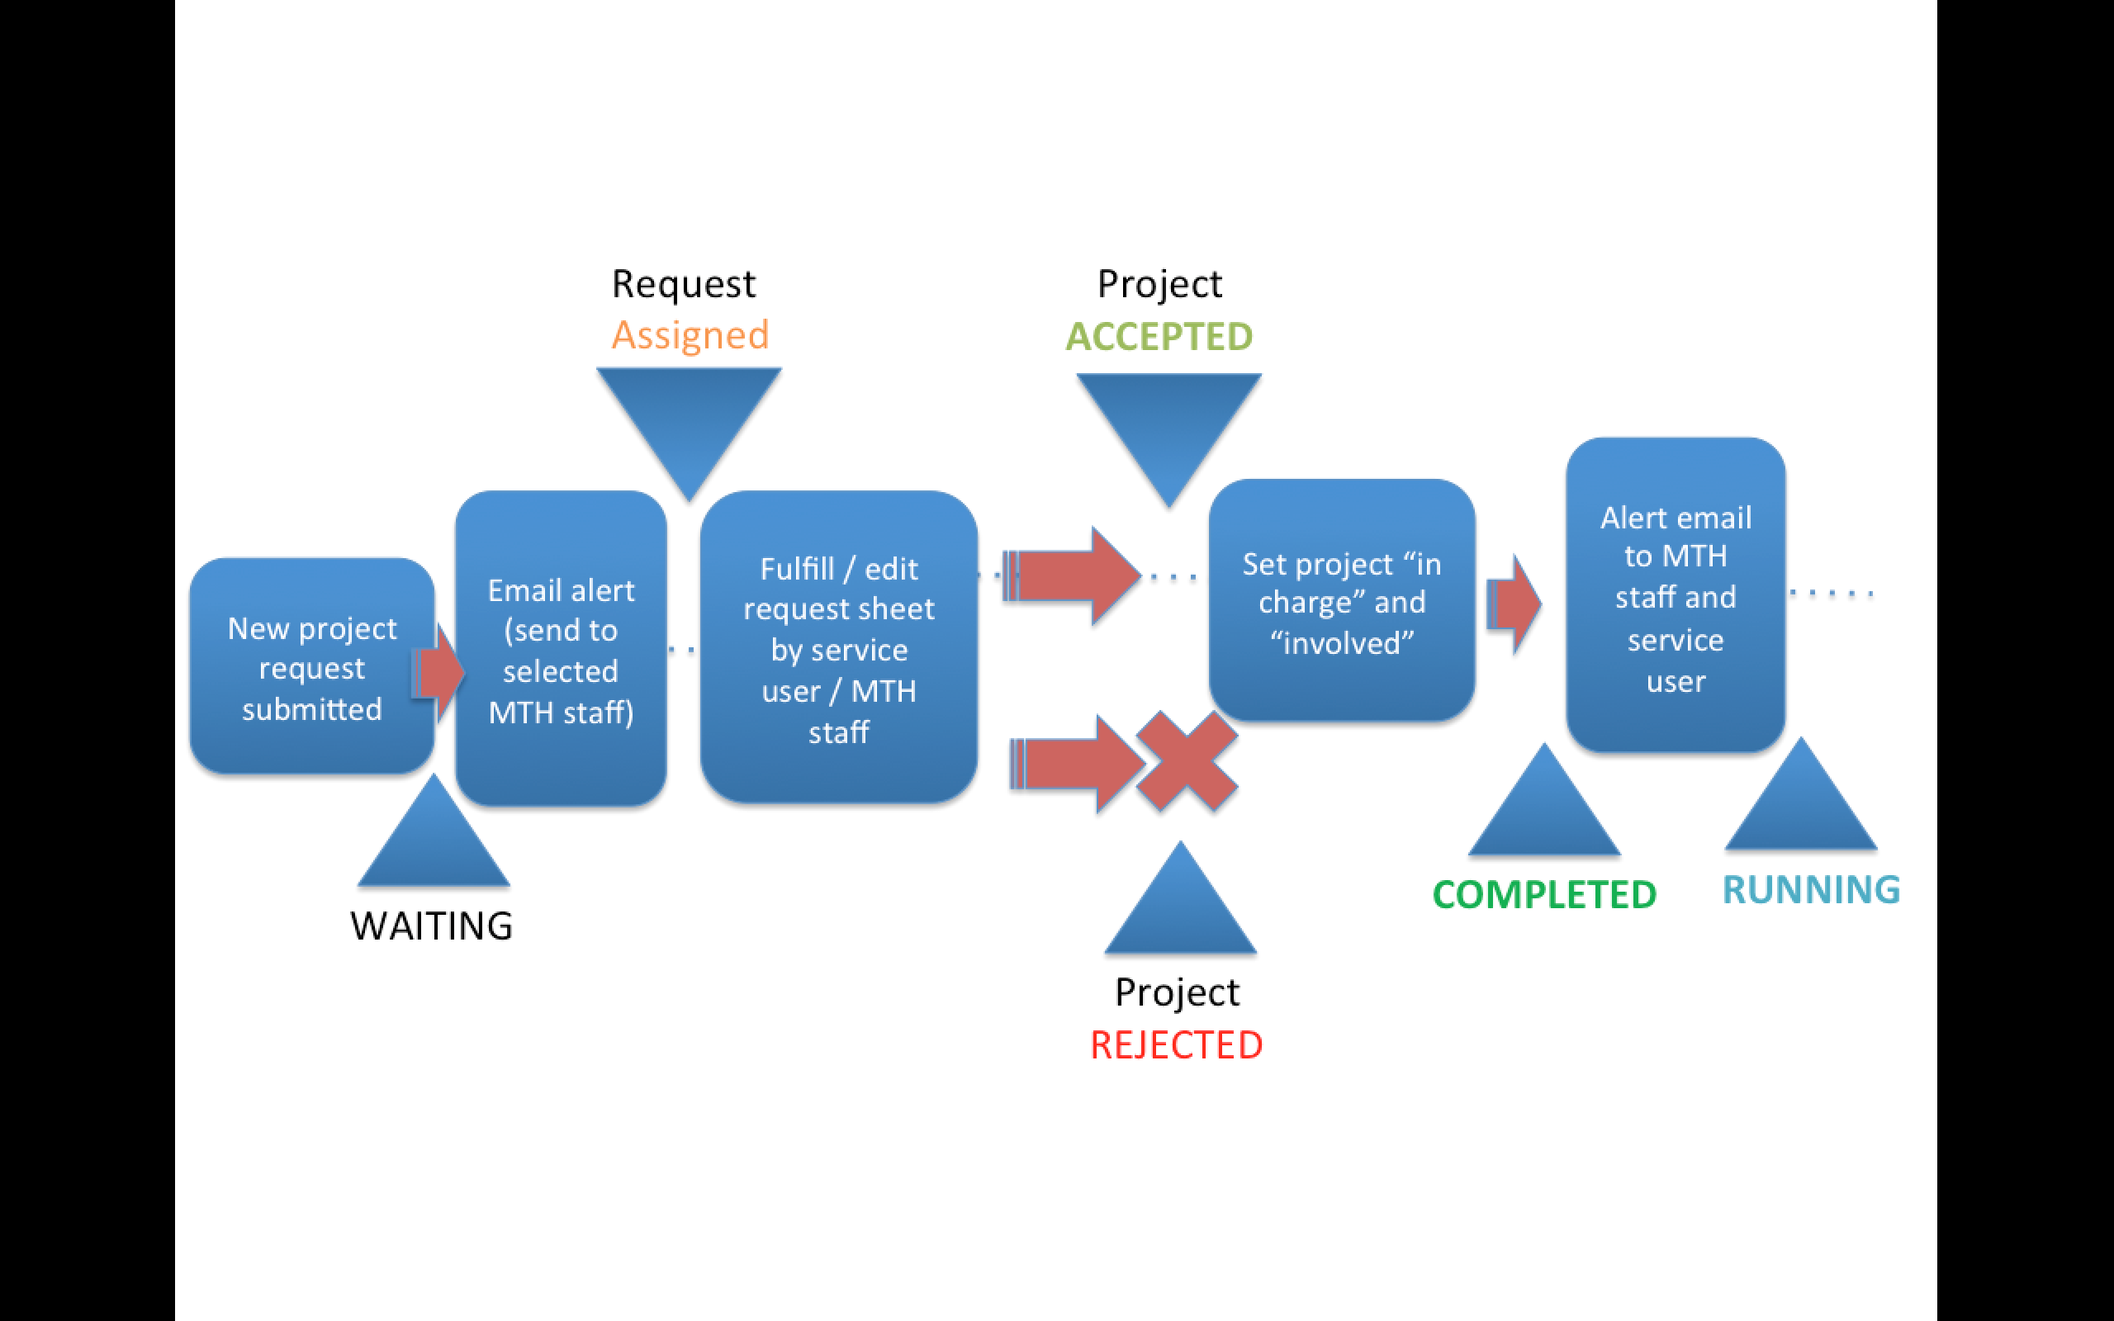
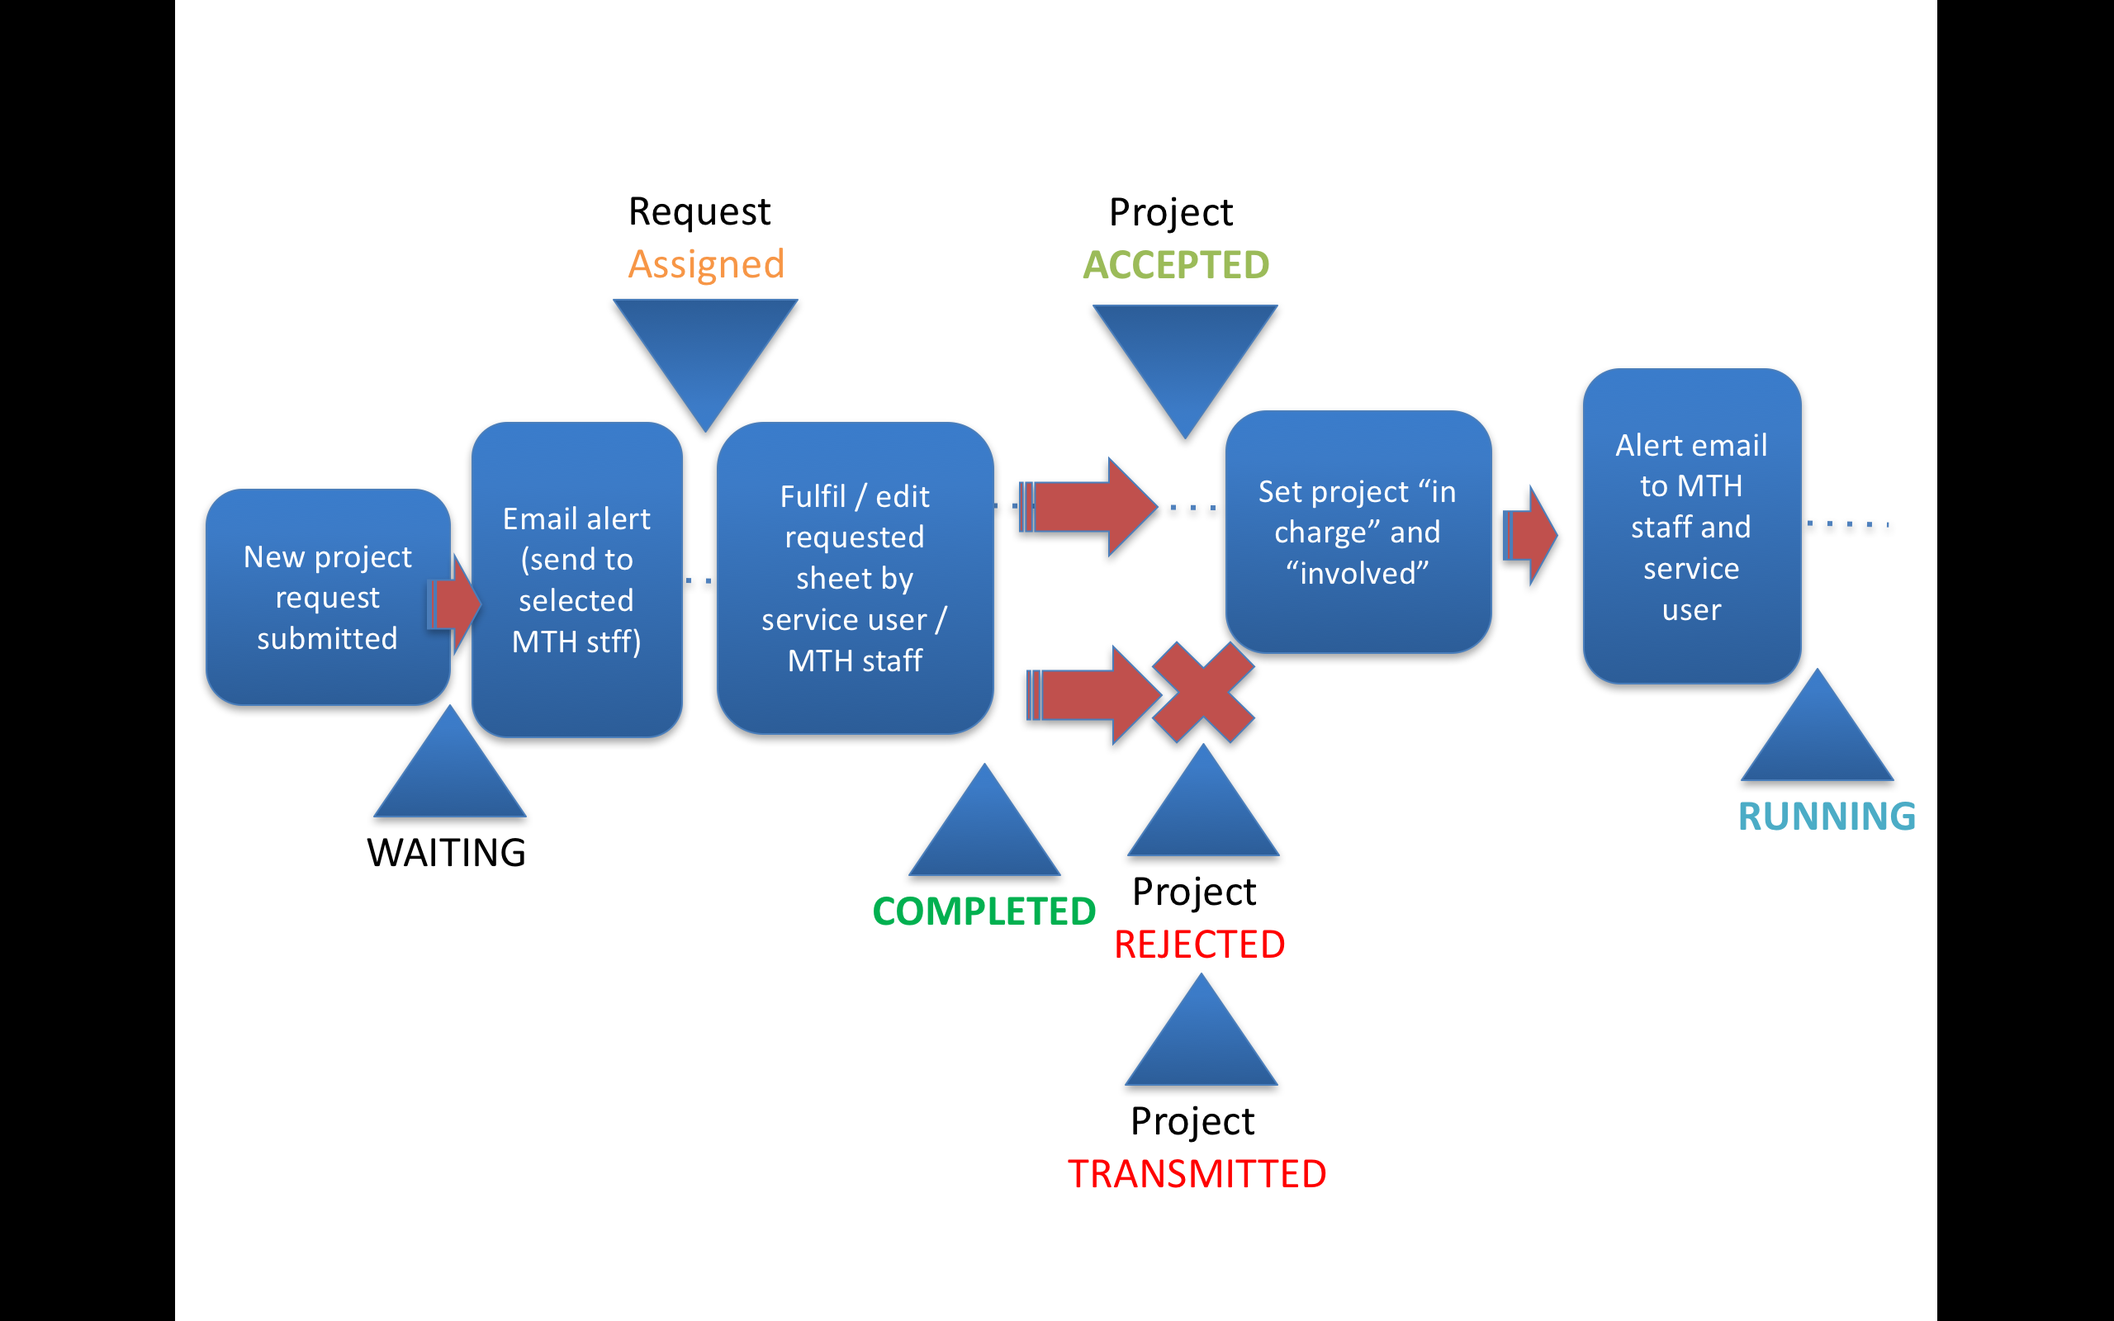
[mama#dev] release 1.0.1

Changed region(s): [[0.0625, 0.1562, 0.9062, 0.9062]]

diff --git a/lang/messages-fr.js b/lang/messages-fr.js
@@ -81,10 +81,10 @@ create_account_userTypeOfLabo_privatePublic = "privé et public"
 create_account_userBtnCreateUser = "Créer un compte"
 create_account_chooseListPhone = "choisir dans la liste..."
 create_account_error_invalid_email = "erreur : l'adresse du courriel ne semble pas valide&#160;!"
-create_account_error_emails_no_match = "erreur : le courriel et la vérifiaction du courriel sont différents&#160;!"
+create_account_error_emails_no_match = "erreur : le courriel et la vérification du courriel sont différents&#160;!"
 create_account_error_weak_password = "erreur :  mot-de-passe trop faible&#160;!"
 create_account_warning_weak_password = "attention : mot-de-passe faible&#160;!"
-create_account_error_passwords_no_match = "erreur : vos deux mot-de-passe doivent être identique."
+create_account_error_passwords_no_match = "erreur : vos deux mot-de-passes doivent être identiques."
 create_account_warning_ldap_email = "attention : votre courriel est conforme aux accréditations LDAP&#160;; vous pouvez utiliser vos identifiants LDAP pour vous <a href=\"?page=login\">connecter</a> sans créer de compte&#160;!"
 
 // update account
@@ -108,7 +108,7 @@ update_account_field_newPwd_success = "(succès)"
 update_account_field_rePwd = "re-entrer votre nouveau mot-de-passe"
 update_account_field_rePwd_ph = "re-entrer votre nouveau mot-de-passe"
 update_account_field_rePwd_success = "(succès)"
-update_account_field_phoneGrp = "code d'appel / numéro de tel."
+update_account_field_phoneGrp = "code d'appel / numéro de tél."
 update_account_field_phoneGrpList = "choisir dans la liste..."
 update_account_field_phoneGrp_ph = "entrez votre numéro de tél"
 update_account_field_laboOrComp = "Laboratoire ou Compagnie"
@@ -123,7 +123,7 @@ update_account_title_accountPref = "Pref. du compte"
 update_account_pref_receiveEmail = "réception des courriels"
 update_account_pref_receiveEmail_eachNotif = "chaque notification"
 update_account_pref_receiveEmail_dailyDig = "bilan journalier"
-update_account_pref_receiveEmail_weeklyDig = "bilan hébdomadaire"
+update_account_pref_receiveEmail_weeklyDig = "bilan hebdomadaire"
 update_account_pref_notif = "alerte des courriels"
 update_account_pref_notifNewUser = "nouveau(x) compte(s) d'utilisateur"
 update_account_pref_notifNewAR = "nouvelle(s) sollicitation(s)"
@@ -136,7 +136,7 @@ update_account_pref_gravatar = "changer en utilisant <a href=\"https://gravatar.
 update_account_updateBtn = "Mettre-à-jour"
 update_account_error_weak_password = "erreur : mot-de-passe trop faible !"
 update_account_warning_weak_password = "attention : mot-de-passe faible !"
-update_account_error_passwords_no_match = "erreur : vos deux mot-de-passe doivent être identiques."
+update_account_error_passwords_no_match = "erreur : vos deux mot-de-passes doivent être identiques."
 
 // dashboad
 viewDetails = "Détails"
@@ -153,8 +153,8 @@ dashboard_assignedProjects = "Sollicitation(s) assignée(s)&#160;!"
 dashboard_bringMeThere = "aller là-bas"
 dashboard_add = "Ajouter"
 dashboard_createNewRequest = "Créer une demande de sollicitation&#160;!"
-dashboard_acceptedProjects = "Projet(s) accépté(s)&#160;!"
-dashboard_completedProjects = "Projet(s) completé(s)&#160;!"
+dashboard_acceptedProjects = "Projet(s) accepté(s)&#160;!"
+dashboard_completedProjects = "Projet(s) complété(s)&#160;!"
 dashboard_runningProjects = "Projet(s) en cours&#160;!"
 dashboard_myProjects = "Mes  Projet(s)"
 dashboard_allProjects = "Tout les projet(s)"
@@ -175,11 +175,11 @@ dashboard_messagesPanel = "Message(s)"
 // diag
 _diag_projectStats = 'Stats. des sollicitations/projets'
 _diag_projectStats_serieProjects = "Projets"
-_diag_projectStats_serieProjects_inCharge = "À gérer"
+_diag_projectStats_serieProjects_inCharge = "A gérer"
 _diag_projectStats_serieProjects_waiting = "En attente"
-_diag_projectStats_serieProjects_assigned = "Assignées"
+_diag_projectStats_serieProjects_assigned = "Assignés"
 _diag_projectStats_serieProjects_accepted = "Acceptés"
-_diag_projectStats_serieProjects_completed = "Completés"
+_diag_projectStats_serieProjects_completed = "Complétés"
 _diag_projectStats_serieProjects_running = "En cours"
 _diag_projectStats_serieProjects_blocked = "En pause"
 _diag_projectStats_serieProjects_rejected = "Rejetés"
@@ -199,7 +199,7 @@ createProject_title_create = "Créer"
 createProject_title_newAnalysisRequest = "nouvelle sollicitation"
 createProject_content_basicInformations = "informations basiques"
 createProject_content_projectTitle = "titre du projet"
-createProject_content_projectTitle_ph = "entrez le titre de la sollicitation / du projet"
+createProject_content_projectTitle_ph = "entrer le titre de la sollicitation / du projet"
 createProject_content_projectTitle_help = "Sera utilisé plus tard pour suivre la sollicitation / le projet. Choisir Sagement !"
 createProject_content_projectAim = "Que voulez-vous faire avec MetaboHUB ?"
 createProject_content_projectAim_ph = "Expliquez votre projet en quelques mots"
@@ -215,9 +215,9 @@ createProject_content_projectType_less50 = "50 ou moins"
 createProject_content_projectType_51to100 = "51 à 100"
 createProject_content_projectType_101to500 = "101 à 500"
 createProject_content_projectType_more501 = "plus de 501"
-createProject_content_projectType_thematicCloudWords = "Mots-clef thématiques"
+createProject_content_projectType_thematicCloudWords = "mots-clefs thématiques"
 createProject_content_projectType_thematicCloudWords_help = "choisir 3 max."
-createProject_content_projectType_subThematicCloudWords = "Mots-clef sous-thématiques"
+createProject_content_projectType_subThematicCloudWords = "Mots-clefs sous-thématiques"
 createProject_content_projectType_subThematicCloudWords_help = "choisir 5 max."
 createProject_content_projectInformations = "informations sur la sollicitation / le projet"
 createProject_content_projectType = "Type"
@@ -228,8 +228,8 @@ createProject_content_project_copart = "l'analyse peut-elle être transmise à u
 createProject_content_project_copart_yes = "oui"
 createProject_content_project_copart_no = "non"
 createProject_content_project_copart_def = "Partenaire privilégié : MTH ne peut pas subvenir à tous les besoins, votre demande peut éventuellement être basculée vers nos <a href=\"http://www.metabohub.fr/donnees/partenaires/\" target=\"_blank\">partenaires</a>&nbsp;; ce sont des laboratoires français compétents et fiables spécialisés en métabolomique et/ou fluxomique qui ne font pas partie de MTH."
-createProject_content_project_context = "context scientifique"
-createProject_content_project_desc = "Déscription Rapide"
+createProject_content_project_context = "contexte scientifique"
+createProject_content_project_desc = "Description rapide"
 createProject_content_project_desc_file_upload = "Téléverser un fichier"
 createProject_content_project_desc_file_upload_btn = "Parcourir&#133;"
 createProject_content_project_financialContext = "Contexte financier"
@@ -244,30 +244,30 @@ createProject_content_project_financialContextNational = "National"
 createProject_content_project_financialContextRegional = "Régional"
 createProject_content_project_financialContextTuto = "tutorat de compagnie"
 createProject_content_project_financialInternationalOutsideEU = "International en dehors de UE"
-createProject_content_project_financialOwnResourcesLaboratory = "Fonds propres unite d’adossement"
+createProject_content_project_financialOwnResourcesLaboratory = "Fonds propres unité d’adossement"
 createProject_content_project_financialContextOther = "autre"
 createProject_content_project_financialContextOther_fin = "Financement autre"
-createProject_content_project_financialContextOther_fin_ph = "autre context  financier"
+createProject_content_project_financialContextOther_fin_ph = "autre contexte financier"
 createProject_warningAsterix = "Attention : les champs avec un astérisque<sup style='color:red'>*</sup> sont obligatoires !"	
 createProject_content_btn_create = "Créer une nouvelle sollicitation"
 // edit project
 editProject_title_edit = "Éditer"
-editProject_title_project = "la solliciation / le projet"
+editProject_title_project = "la sollicitation / le projet"
 editProject_metadata_createdBy = "Cette requête / projet a été initié par"
-editProject_metadata_createdOn = "Crée le :"
+editProject_metadata_createdOn = "Créé le :"
 editProject_metadata_updatedOn = "Dernière mise-à-jour :"
 editProject_alertSuccess = "Succès"
 editProject_alertProjectUpdated = "sollicitation / projet mis-à-jour !"
 editProject_extraBox_title = "informations : stats. MTH"
 editProject_extraBox_help = "Merci de compléter ces informations lors de l’entretien téléphonique avec le demandeur."
-editProject_extraBox_laboType = "Type de Labo"
+editProject_extraBox_laboType = "Type de Laboratoire"
 editProject_extraBox_laboType_private = "privé"
 editProject_extraBox_laboType_public = "public"
 editProject_extraBox_laboType_privatepublic = "privé/public"
-editProject_extraBox_adminContext = "Context administratif"
+editProject_extraBox_adminContext = "Contexte administratif"
 editProject_extraBox_adminContext_ph = "exp. : MNHN - UMR 12345"
 editProject_extraBox_adminContext_help = "Veuillez indiquer la tutelle principale (INRA, CNRS, CEA, INSERM, Université, INSA, etc.) et l’unité de recherche ou le nom de la société."
-editProject_extraBox_geoContext = "context Géographique"
+editProject_extraBox_geoContext = "contexte Géographique"
 editProject_extraBox_geoContext_ph = "exp. : Unité d’adossement"
 editProject_extraBox_geoContext_help = "Veuillez indiquer le contexte géographique (Unité d’adossement, régional, national ou international)"
 editProject_extraBox_howDidYouKnewMTH = "Comment avez-vous connu MTH ?"
@@ -275,7 +275,7 @@ editProject_extraBox_hdykm_coworker = "collègue"
 editProject_extraBox_hdykm_publication = "publication / communication / congrès "
 editProject_extraBox_hdykm_website = "site web"
 editProject_extraBox_hdykm_serchEngine = "moteur de recherche"
-editProject_extraBox_userNeeds = "besoins synthetiques de l'utilisateur"
+editProject_extraBox_userNeeds = "besoins synthétiques de l'utilisateur"
 editProject_extraBox_userNeeds_ph = "exp. : Analyses métabolomiques sur deux matrices."
 editProject_extraBox_userNeeds_help = "Veuillez indiquer les besoins de l’utilisateur."
 editProject_extraBox_projectMaturity = "Maturité du projet ?"
@@ -292,26 +292,26 @@ editProject_btn_update = "Mettre à jour"
 		
 // list projects
 listProjects_noProject_title = "Désolé,"
-listProjects_noProject_text = "aucune solliciation / aucun projet à afficher pour le moment !"
-listProjects_search_ph = "exp. : titre de la solliciation / du projet"
+listProjects_noProject_text = "aucune sollicitation / aucun projet à afficher pour le moment !"
+listProjects_search_ph = "exp. : titre de la sollicitations / du projet"
 listProjects_search_filter_all = "Tous"
 listProjects_search_filter_blocked = "Pj en pause"
-listProjects_search_filter_rejected = "Sol. rejetés"
+listProjects_search_filter_rejected = "Sol. rejetées"
 listProjects_search_filter_waiting = "Sol. en attente"
-listProjects_search_filter_assigned = "Pj assignées"
+listProjects_search_filter_assigned = "Pj assignés"
 listProjects_search_filter_accepted = "Pj acceptés"
-listProjects_search_filter_completed = "Pj completés"
+listProjects_search_filter_completed = "Pj complétés"
 listProjects_search_filter_running = "Pj en cours"
 listProjects_search_filter_archived = "Pj archivés"
 listProjects_search_filter_allStatus = "Tout statut"
 listProjects_search_btn = "Chercher"
 listProjects_filter_owner = "Je suis propr."
-listProjects_filter_inCharge = "Je gére"
+listProjects_filter_inCharge = "Je gère"
 listProjects_filter_involved = "Je suis analyste"
 listProjects_download_btn = "Télécharger"
 listProjects_filter_from = "depuis"
 listProjects_filter_to = "jusqu'à"
-listProjects_tab_title = "nom de la solliciation / du projet"
+listProjects_tab_title = "nom de la sollicitation / du projet"
 listProjects_tab_status = "Statut"
 listProjects_tab_created = "Créé"
 listProjects_tab_updated = "Mis-à-jour"
@@ -346,7 +346,7 @@ listAppointments_search_filter_ongoing = "seulement à venir"
 listAppointments_search_btn = "Chercher"
 _appointmentChooseDatePrefix = "choisir entre ";
 _appointmentChooseDateSuffix = "";
-listAppointments_tab_about_pj = "À propos de la solliciation / du Projet"
+listAppointments_tab_about_pj = "À propos de la sollicitation / du Projet"
 listAppointments_tab_from = "De"
 listAppointments_tab_to = "Pour"
 listAppointments_tab_message = "Message"
@@ -367,7 +367,7 @@ _login_used = "ce courriel est déjà utilisé en identifiant."
 editProjectMenu_setToAssigned = "changer à \"assigné\""
 editProjectMenu_setToRejected = "changer à \"rejeté\""
 editProjectMenu_setToAccepted = "changer à \"accepté\""
-editProjectMenu_setToCompleted = "changer à \"completé\""
+editProjectMenu_setToCompleted = "changer à \"complété\""
 editProjectMenu_setToRunning = "changer à \"en cours\""
 editProjectMenu_setToBlocked = "changer à \"en pause\""
 editProjectMenu_setToArchived = "changer à \"archivé\""
@@ -414,10 +414,10 @@ _modal_showProject_pjSampleNb_less50 = "moins de 50"
 _modal_showProject_pjSampleNb_51to100 = "51 à 100"
 _modal_showProject_pjSampleNb_101to500 = "101 à 500"
 _modal_showProject_pjSampleNb_more500 = "plus de 501"
-_modal_showProject_pjScientificCtx = "Context Scientifique"
-_modal_showProject_pjScientificCtxFile = "Fichier de Context Scientifique"
-_modal_showProject_pjThemWords = "mots-clefs Thematiques"
-_modal_showProject_pjSubThemWords = "sous-mots-clefs Thematiques"
+_modal_showProject_pjScientificCtx = "Contexte Scientifique"
+_modal_showProject_pjScientificCtxFile = "Fichier de Contexte Scientifique"
+_modal_showProject_pjThemWords = "mots-clefs Thématiques"
+_modal_showProject_pjSubThemWords = "sous-mots-clefs Thématiques"
 _modal_showProject_pjMTHPF = "plateformes MetaboHUB"
 _modal_showProject_pjRejected = "cause du rejet"
 _modal_showProject_pjBlocked = "cause de la pause"
@@ -444,9 +444,9 @@ _modal_stopProject_rejectedSelect_opt_too_many_samples = "nombre d’échantillo
 _modal_stopProject_rejectedSelect_opt_not_funded = "financement refusé / financé"
 _modal_stopProject_rejectedSelect = "Choisir une raison dans la liste&nbsp;"
 _modal_stopProject_rejectedSelect_opt_expensive = "trop cher !"
-_modal_stopProject_rejectedSelect_opt_delays = "délais trop long"
+_modal_stopProject_rejectedSelect_opt_delays = "délais trop longs"
 _modal_stopProject_freeTxt = "La raison en quelques mots ?"
-_modal_stopProject_freeTxt_ph = "merci d'éxpliquer la raison en quelques mots"
+_modal_stopProject_freeTxt_ph = "merci d'expliquer la raison en quelques mots"
 _modal_stopProject_btn_save = "Sauver"
 _modal_stopProject_btn_close = "Fermer"
 

diff --git a/content/help-fr.html b/content/help-fr.html
@@ -39,16 +39,16 @@
 			la sollicitation est pris en charge par un correspondant MTH qui se charge de prendre rendez-vous avec l'usager afin de compléter la fiche de sollicitation avec ce dernier.
 		</li>
 		<li>
-			<b>Accepté ou Refusé</b>
-			<br />
-			point d'aiguillage de la sollicitation après &quot;Assignée&quot;, ou du projet si celui-ci n'est pas financé (il passe au statut &quot;Rejetée&quot;).
-		</li>
-		<li>
 			<b>Complété</b>
 			<br />
 			l'usager et le correspondant MTH ont complété la fiche de sollicitation. 
 			Cette dernière est maintenant un projet et est considéré comme en cours de traitement par la (les) plateforme(s) au(x)quelle(s) il est rattaché. 
 			Le correspondant MTH va désigner un chef de projet MTH et des analystes MTH des différentes PFs sur avis des responsables de PFs / EB.
+		</li>
+		<li>
+			<b>Accepté ou Refusé</b>
+			<br />
+			point d'aiguillage de la sollicitation après &quot;Assignée&quot;, ou du projet si celui-ci n'est pas financé (il passe au statut &quot;Rejetée&quot;).
 		</li>
 		<li>
 			<b>En cours</b>
@@ -81,11 +81,11 @@
 			le correspondant change manuellement le statut en fonction de la sollicitation en fonction de l'évaluation
 		</li>
 		<li>
-			Projet accepté  -&gt; Projet complété : 
+			sollicitation acceptée  -&gt; sollicitation complétée : 
 			l'usager ou/et le correspondant ont complété l'ensemble des informations obligatoires constituant la fiche de la sollicitation, 
 		</li>
 		<li>
-			Projet complété -&gt; Projet en cours : 
+			sollicitation complétée -&gt; Projet en cours : 
 			le CDP du projet a été nommé et les analystes des PFs ont été désignés par le correspondant sur avis des responsables de PFs.
 		</li>
 		<li>

diff --git a/content/help-en.html b/content/help-en.html
@@ -81,11 +81,11 @@
 			the MTH staff in charge change the status after she/he evaluate it.
 		</li>
 		<li>
-			Accepted project  -&gt; Completed project: 
+			Accepted request  -&gt; Completed request: 
 			the service user and/or the MTH staff have completed all project's sheet mandatory fields,
 		</li>
 		<li>
-			Completed project -&gt; running: 
+			Completed request -&gt; running: 
 			the MTH staff in charge of the project has nominated MTH staff "in charge" on the platforms.
 		</li>
 		<li>
